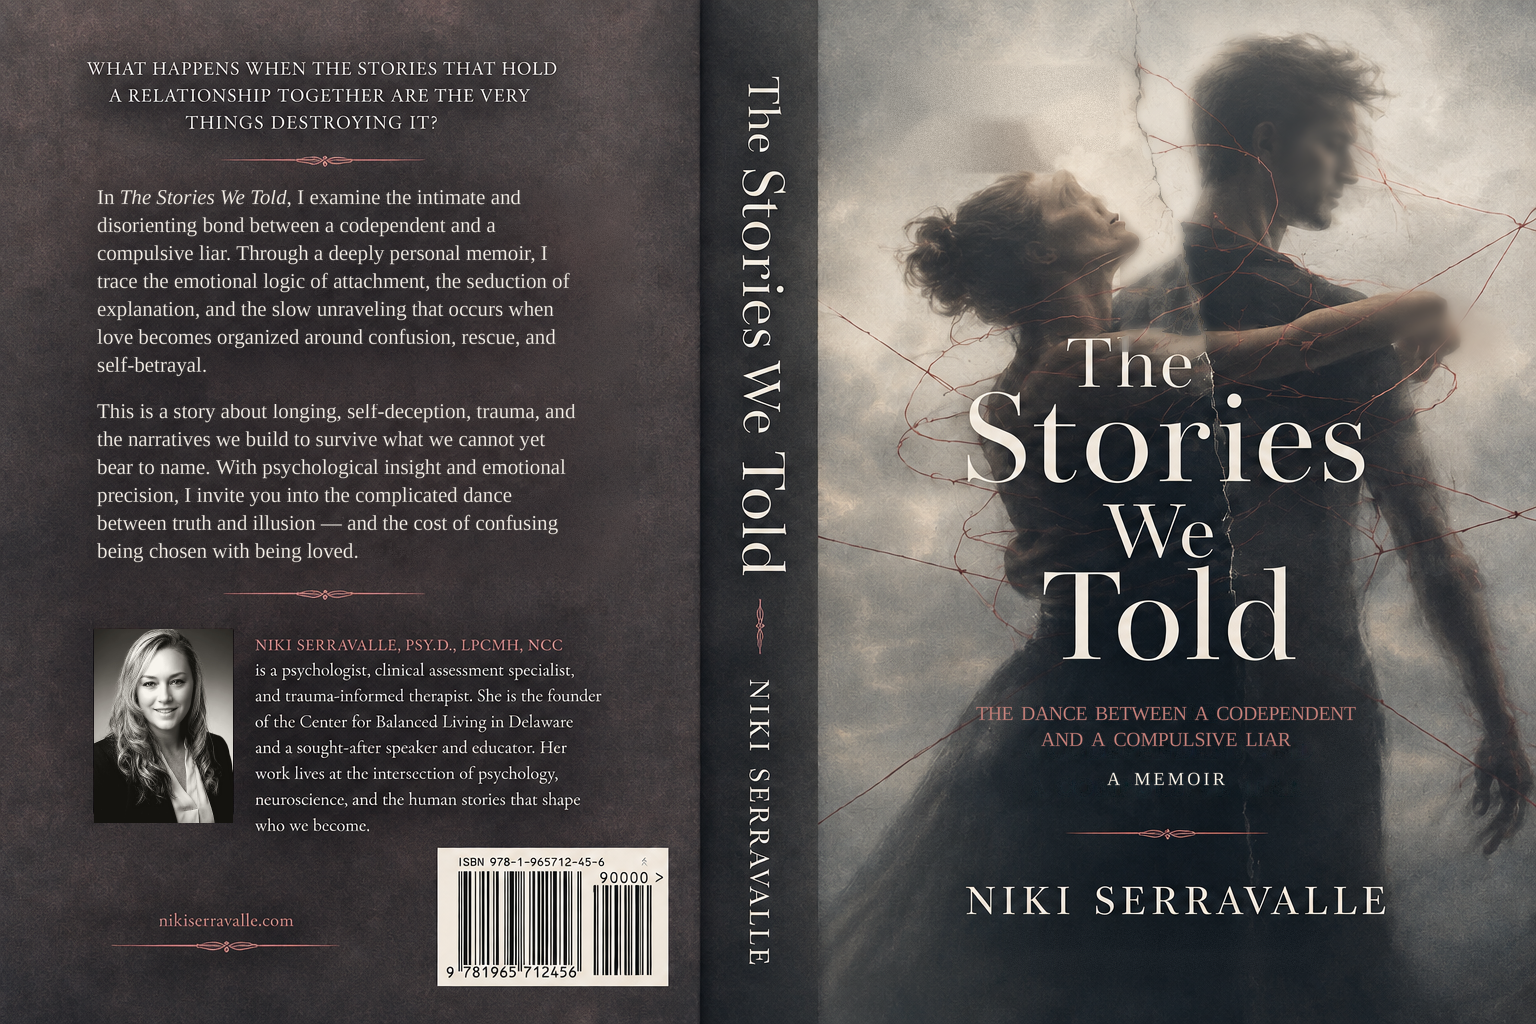
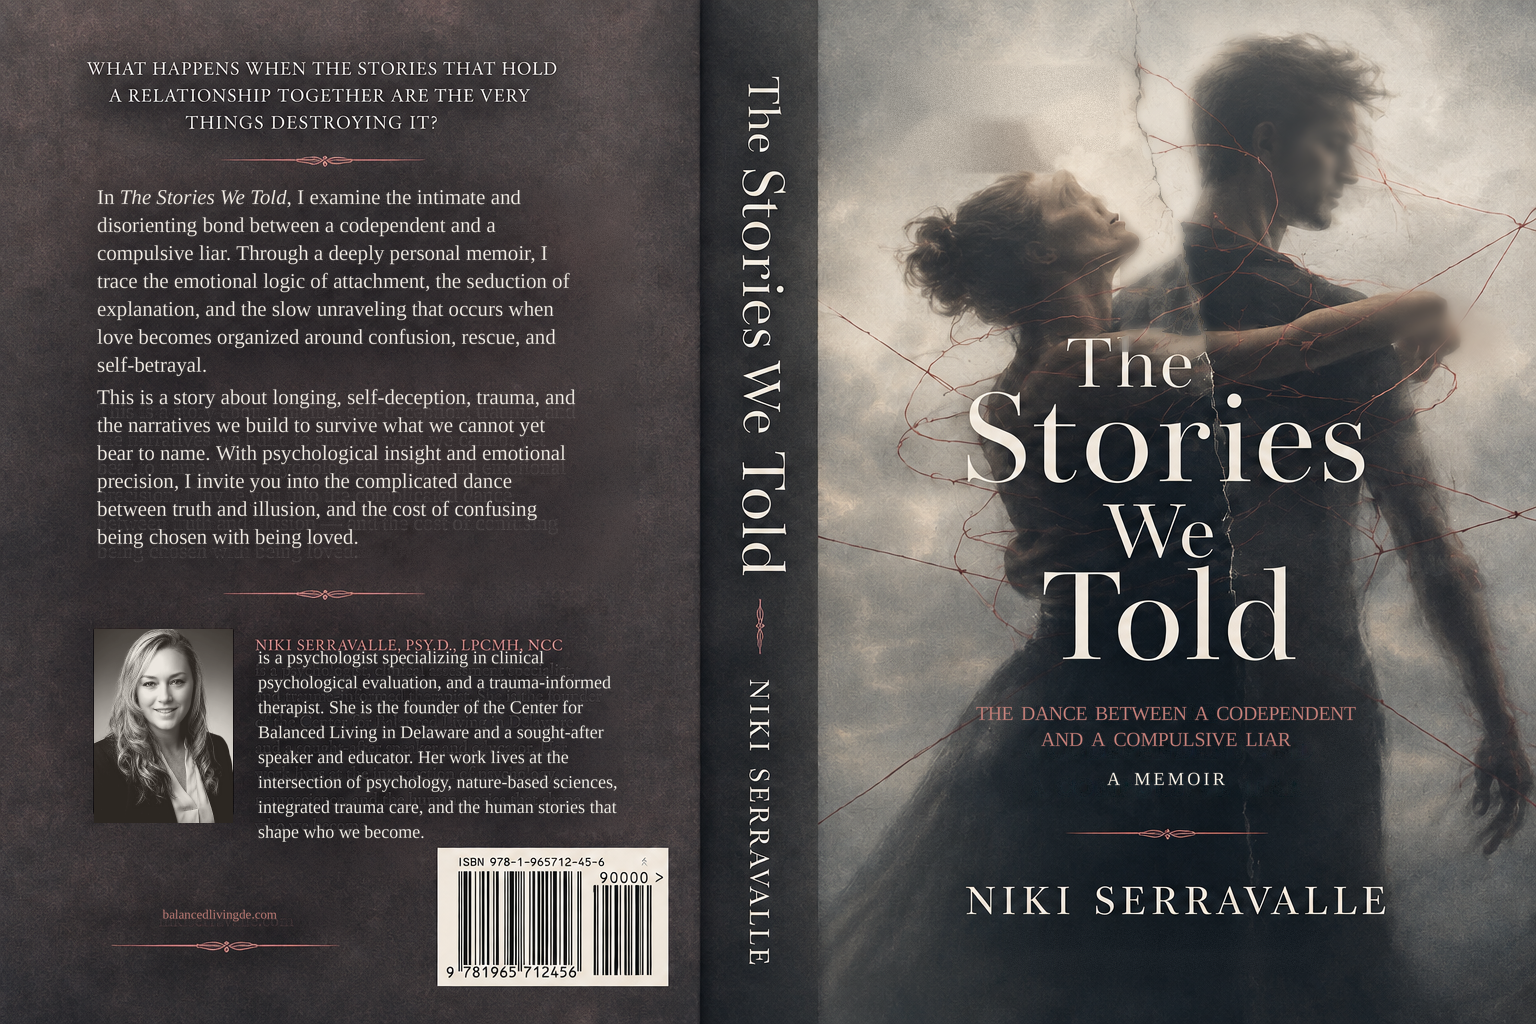
Warm-duotone headshot; update back cover bio, website, and remove em dash
Warm the author headshot to a soft duotone to match the palette. Update the
author bio (clinical psychological evaluation; nature-based sciences; integrated
trauma care), change the website to balancedlivingde.com, and remove the em dash
from the back-cover description. Regenerate comps; brief updated to match.

Claude-Session: https://claude.ai/code/session_01HgndQ1X8EGE1cvxGzWYirU

Changed region(s): [[0.0625, 0.375, 0.375, 0.5625], [0.1562, 0.625, 0.4062, 0.8125], [0.0938, 0.875, 0.1875, 0.9062]]

diff --git a/deliverables/rev2-the-stories-we-told/README.md b/deliverables/rev2-the-stories-we-told/README.md
@@ -29,7 +29,9 @@ Applied directly to the flattened cover, for **direction only** — not final ar
 - **Female hand** (draped over his neck) softened into the smoke so the malformed
   fingers stop reading — a receding soft-focus fix, not an anatomical redraw
 - Upper third + left edge lifted toward warm stone/bone, lower-right kept dark
-- Back-cover **description reset in first person** (draft), author bio left third-person
+- Back-cover **description reset in first person** (draft, no em dashes)
+- **Author bio updated** (clinical psychological evaluation; nature-based sciences; integrated trauma care) and **website** changed to balancedlivingde.com
+- Author headshot **softly warmed to a duotone** to match the palette
 - **New B&W studio headshot** (hair sharpened) placed in the back-cover photo slot
 
 ## Still needs supplied files / layered source
